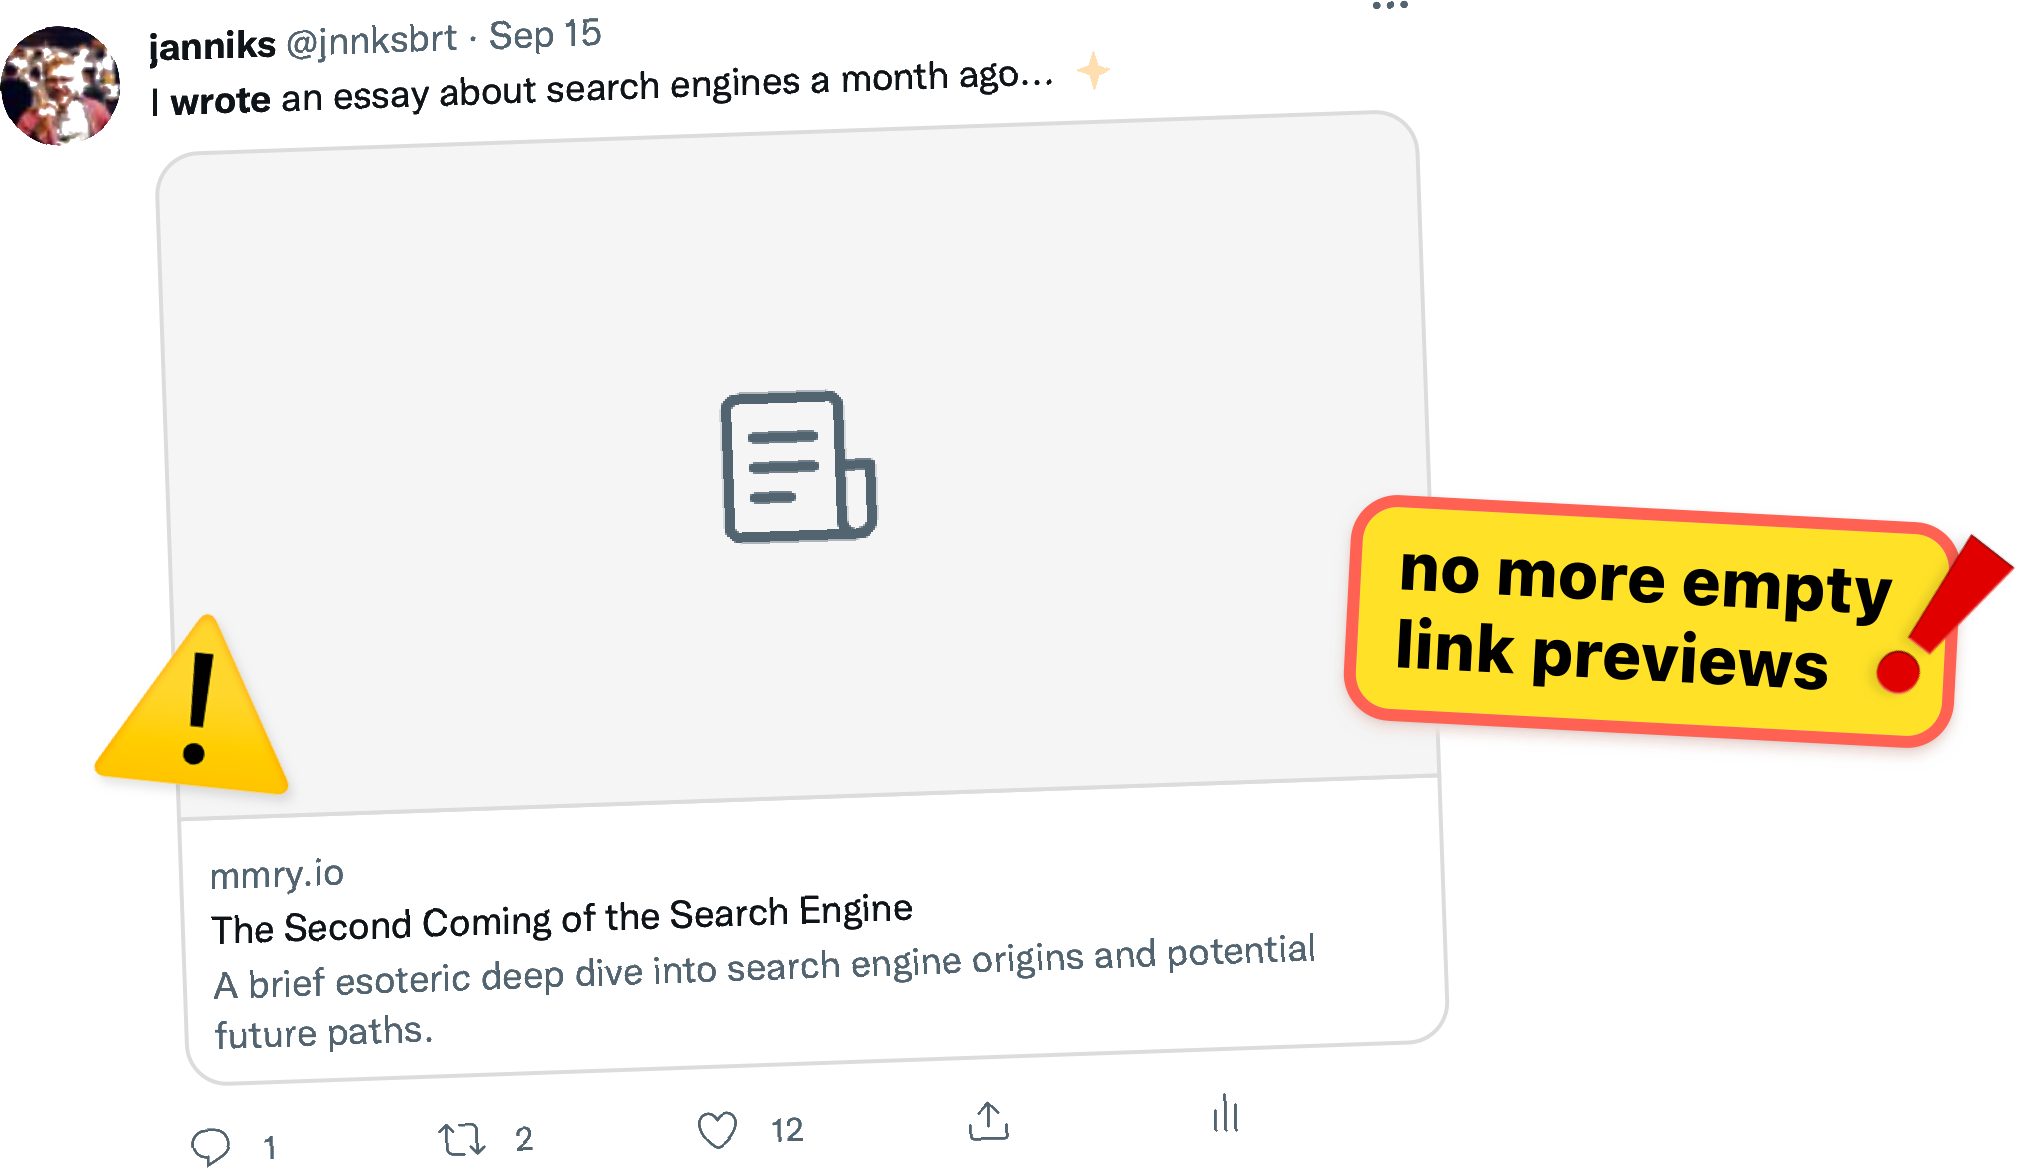
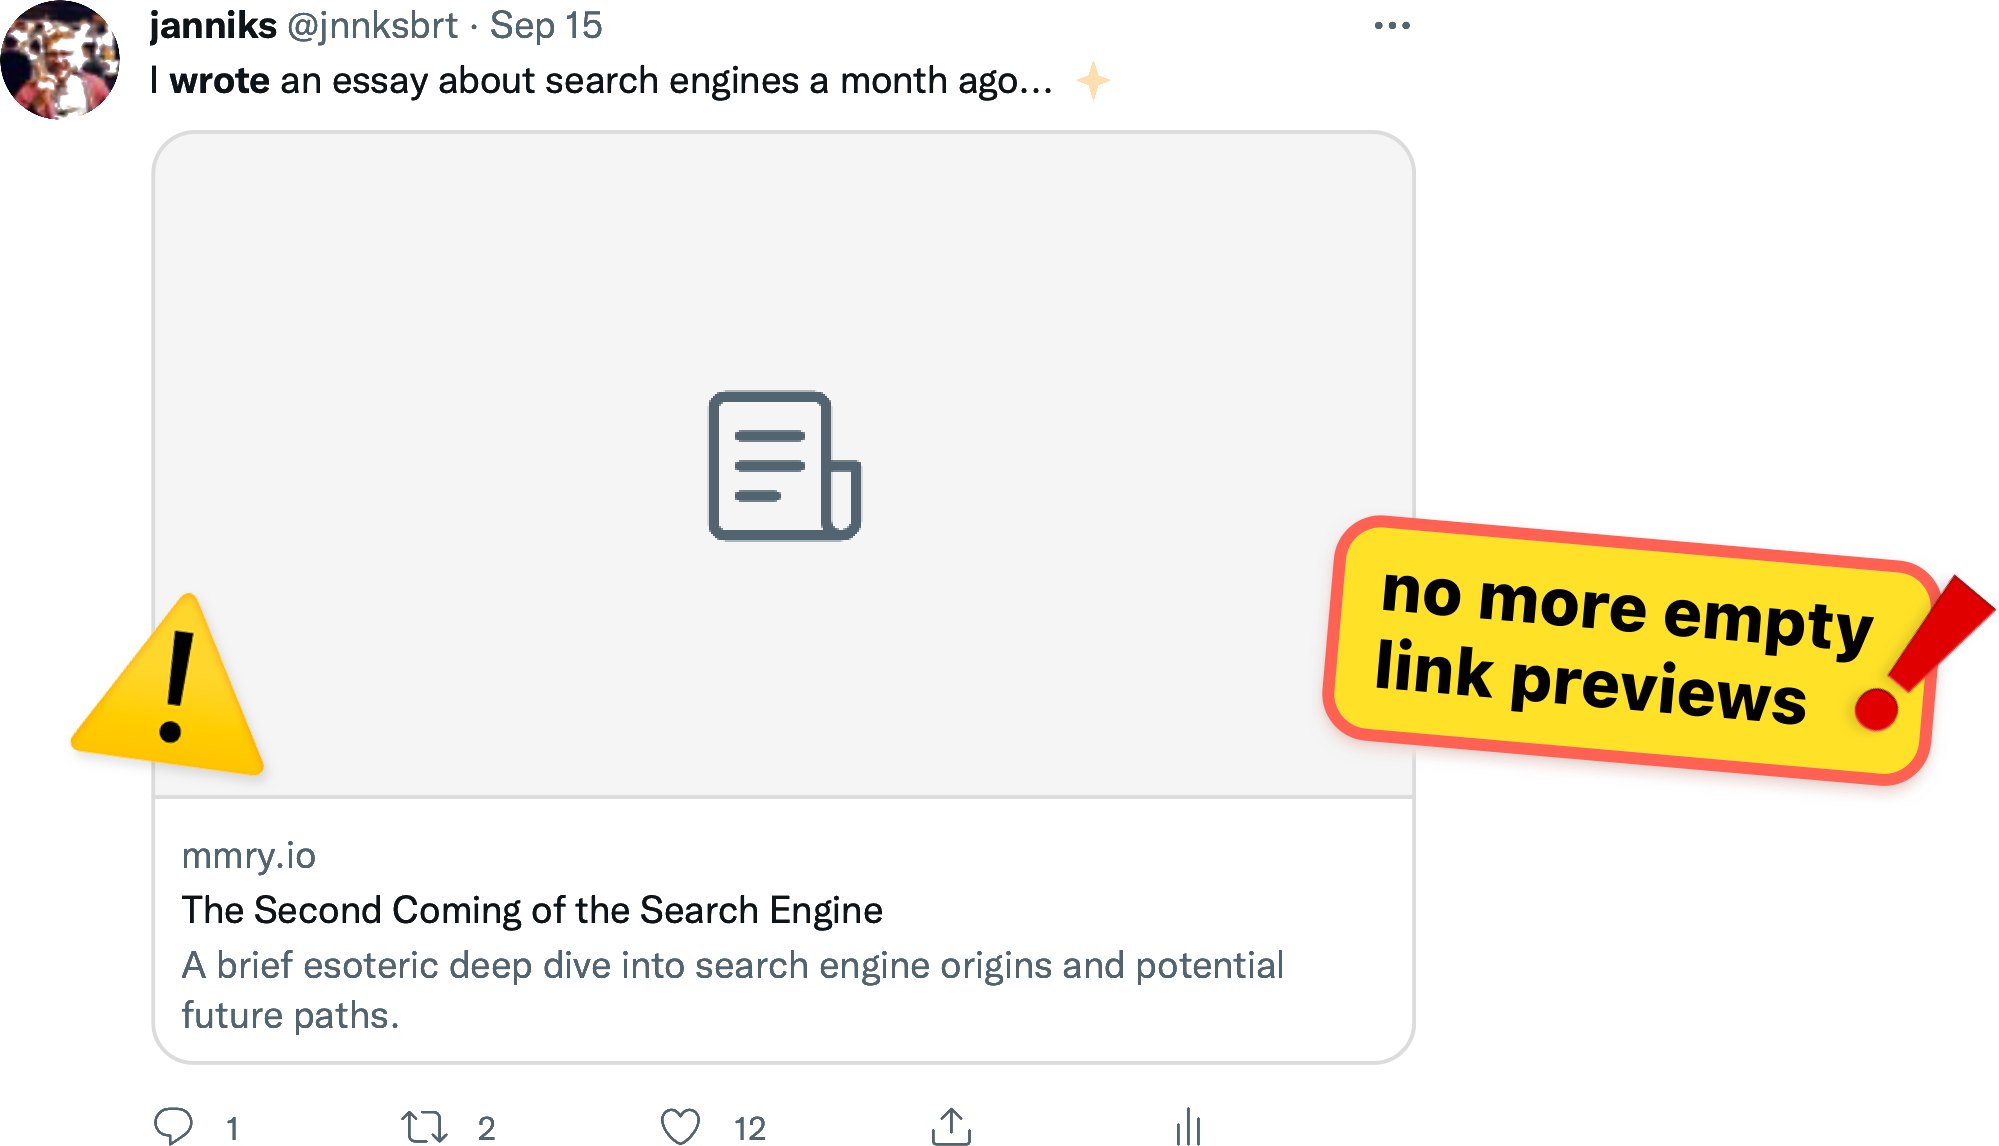
Fix import

diff --git a/pages/index.js b/pages/index.js
@@ -47,7 +47,7 @@ export default function IndexPage() {
         </div>
       </div>
       <Start session={session} text="Go to editor!" />
-      <div className="w-full max-w-4xl text-center p-4 sm:p-16">
+      <div className="w-full -rotate-2 max-w-4xl text-center p-4 sm:p-16">
         <img
           src="/no-og.png"
           alt="Screenshot of Twitter link without preview"
@@ -105,7 +105,7 @@ export default function IndexPage() {
           </p>
         </div>
       </div>
-      <div className="w-full max-w-4xl text-center p-4 mb-2 sm:p-16 sm:mb-8">
+      <div className="w-full rotate-2 max-w-4xl text-center p-4 mb-2 sm:p-16 sm:mb-8">
         <img src="/og.png" alt="Screenshot of Twitter link with preview" />
       </div>
       <div className="mb-32">

diff --git a/pages/projects/index.js b/pages/projects/index.js
@@ -1,5 +1,6 @@
 import Loading from 'components/Loading';
 import { createEmptyProject, getProjects, useHasMounted } from 'lib/helpers';
+import { supabase } from 'lib/supabaseClient';
 import { useRouter } from 'next/dist/client/router';
 import { useEffect, useState } from 'react';
 
